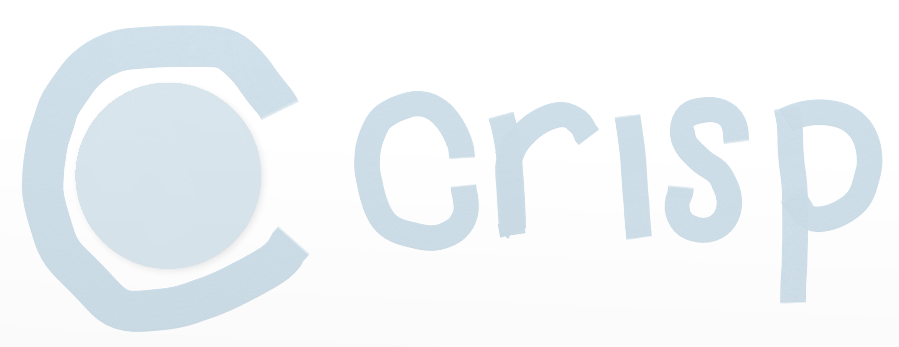
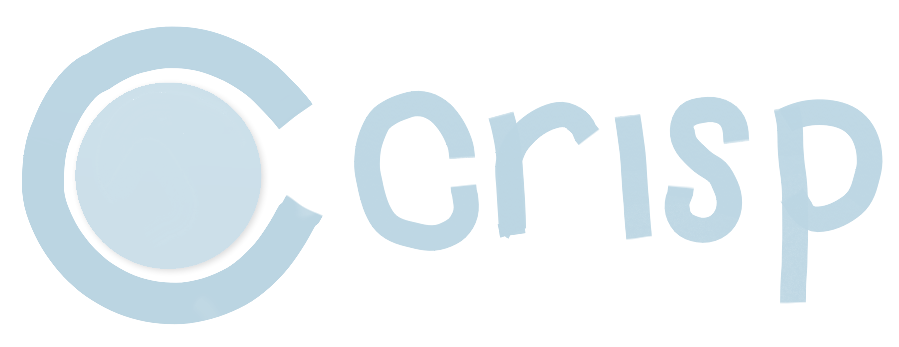
no more cropped background

diff --git a/css/style.css b/css/style.css
@@ -130,17 +130,16 @@ footer {
 	}
 
 	#slide {
+		background: url('../images/background.png');
+		background-repeat: no-repeat;
+		background-position: left top;
+		background-size: 32.786885%;
 		width: 98.18032787%;
 		float: left;
 		padding: .81967213%;
 	}
 
 	.slideText {
-		background: url('../images/background.png');
-		background-repeat: no-repeat;
-		background-size: 100%;
-		background-position: center top;
-		background-size: 100%;
 		width: 32.786885%;
 		float: left;
 	}
